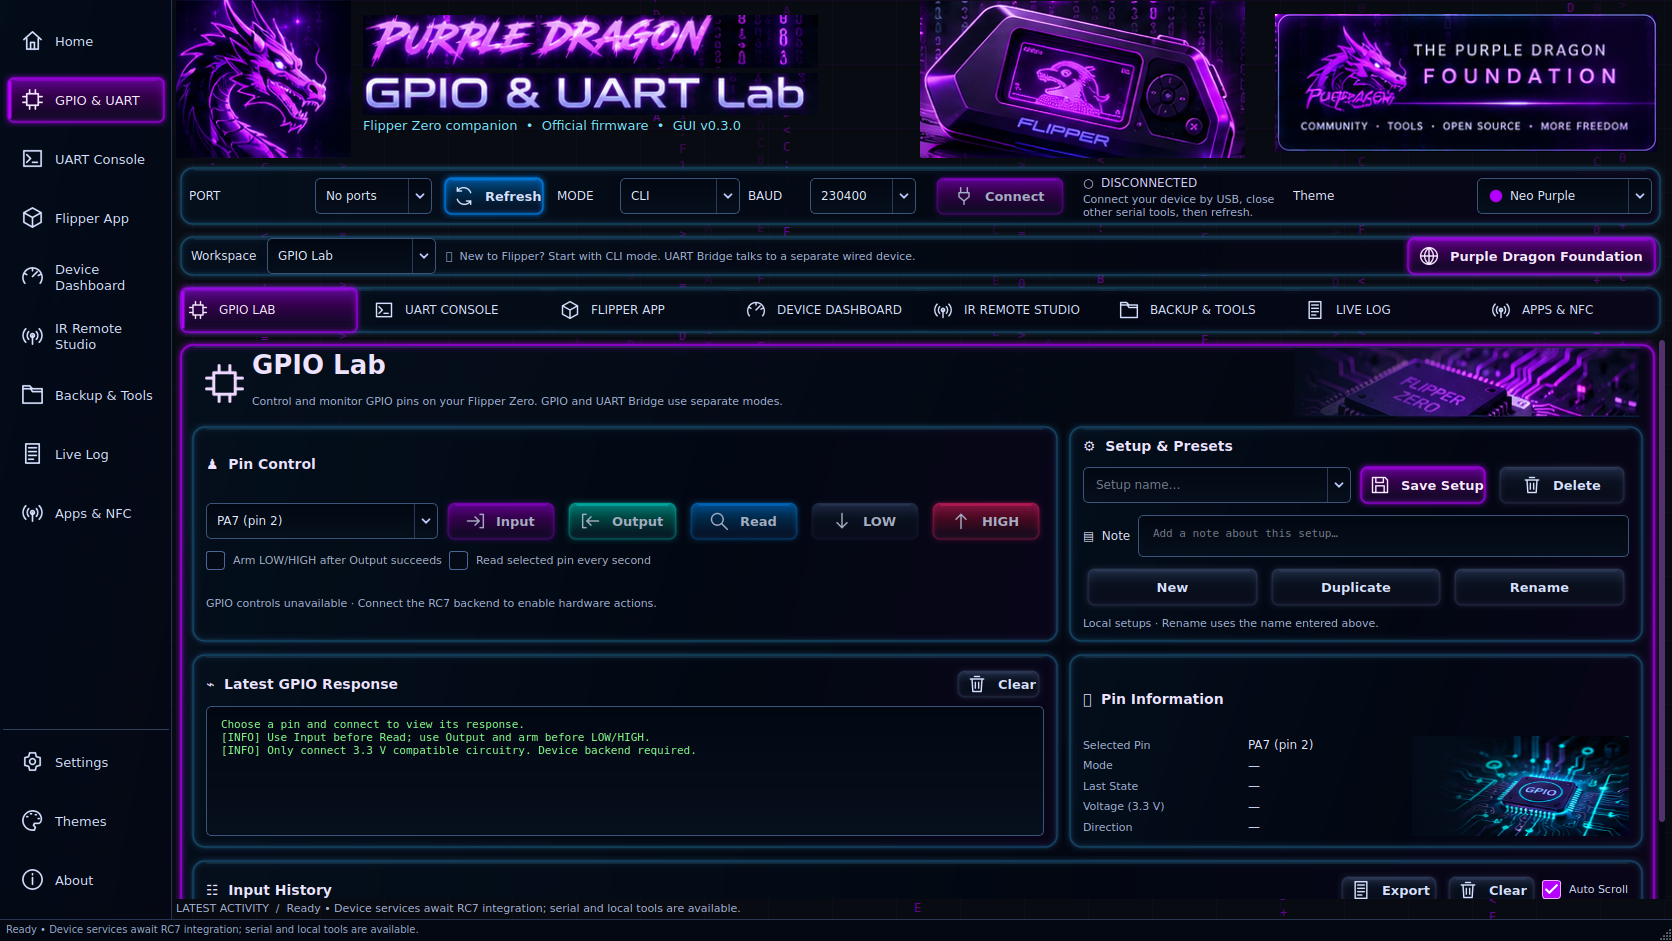
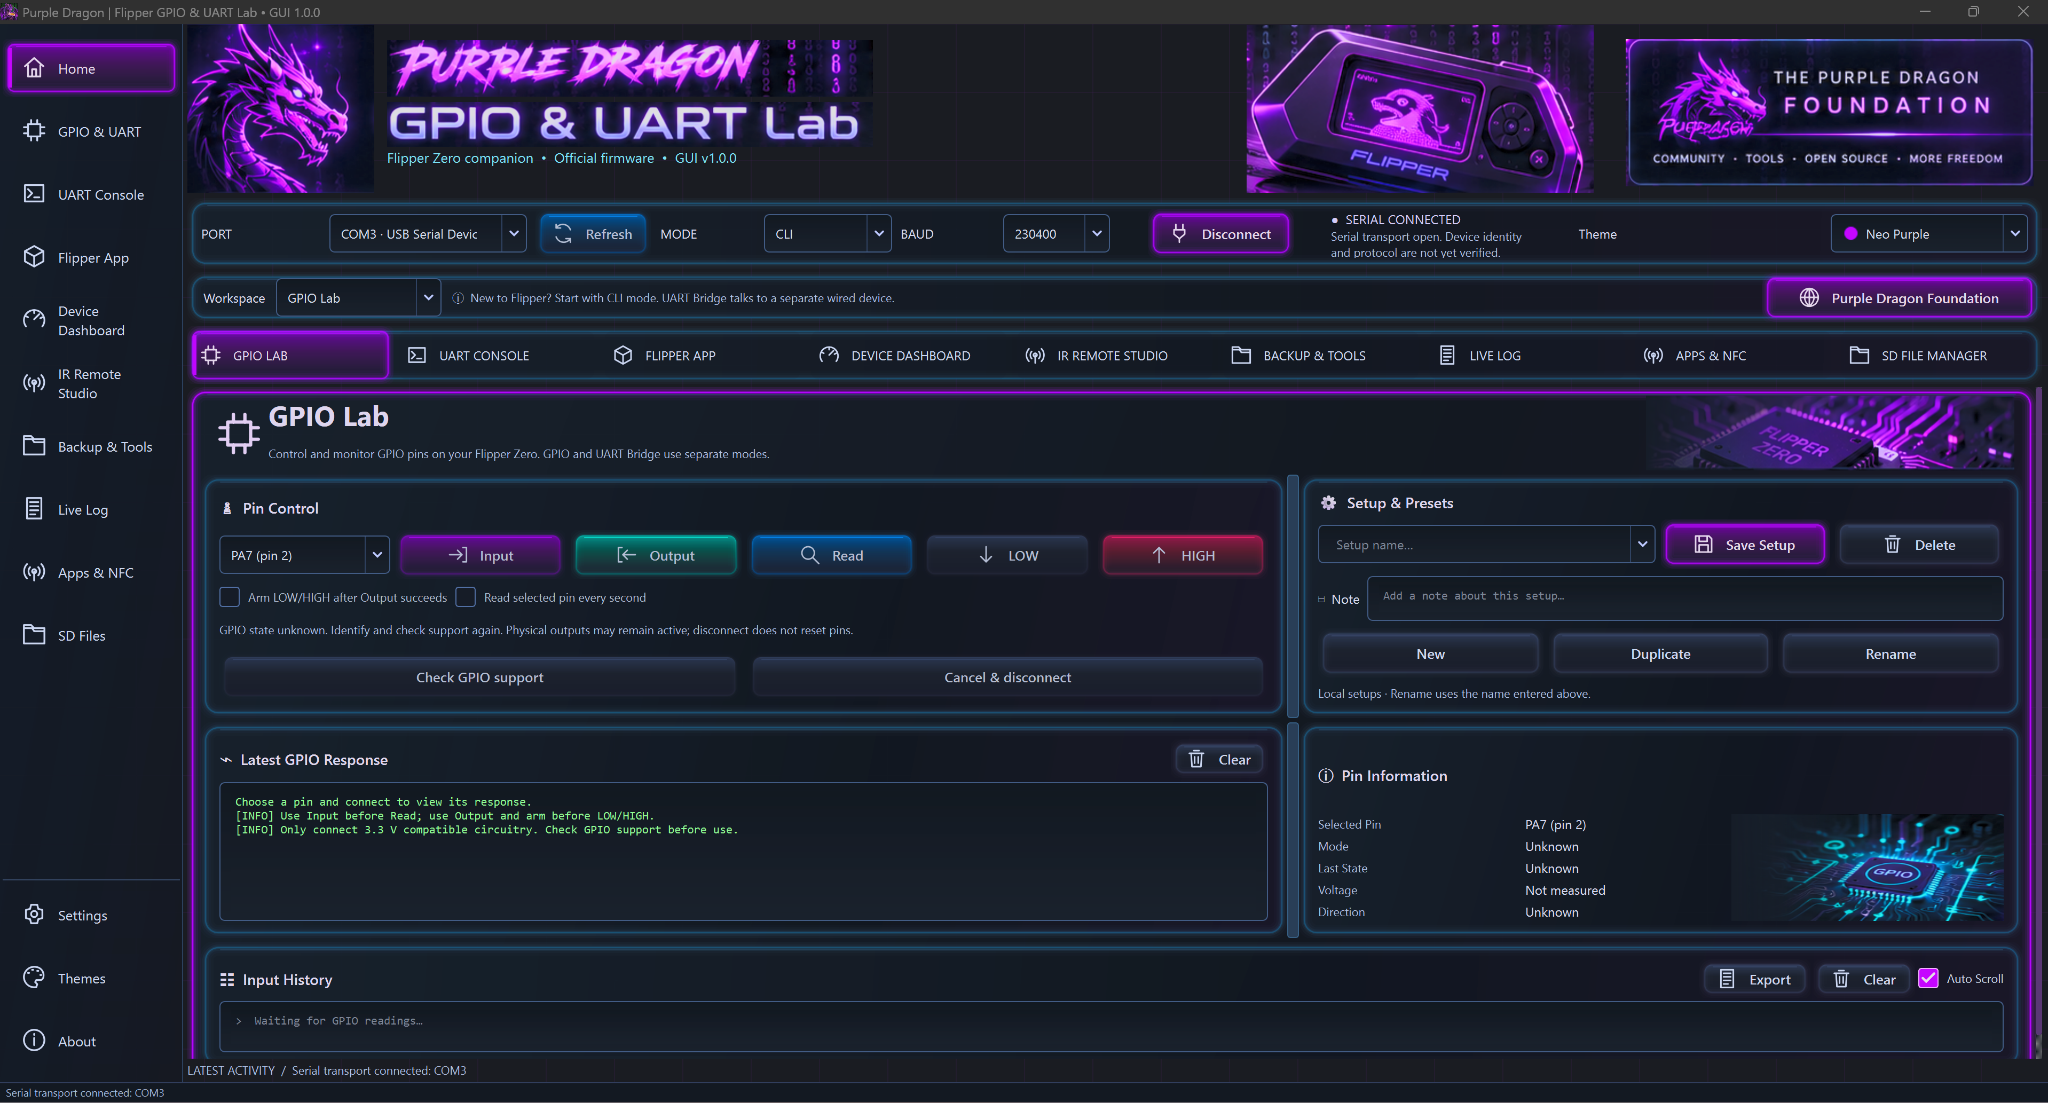
Update README preview with the supplied Windows v1.0.0 screenshot

diff --git a/README.md b/README.md
@@ -6,7 +6,7 @@ A native Qt desktop companion for Flipper Zero with a neon console interface, US
 
 ![PurpleDragonFlipperStudio interface](assets/Preview-Desktop.png)
 
-*Interface preview from an earlier build; current features are listed below.*
+*Current v1.0.0 desktop screenshot.*
 
 [Downloads](https://github.com/bubblegump30/PurpleDragonFlipperStudio/releases) · [Quick start](docs/QUICKSTART.md) · [1.0 release notes](docs/RELEASE-v1.0.0.md) · [Release history](docs/CHANGELOG.md)
 
